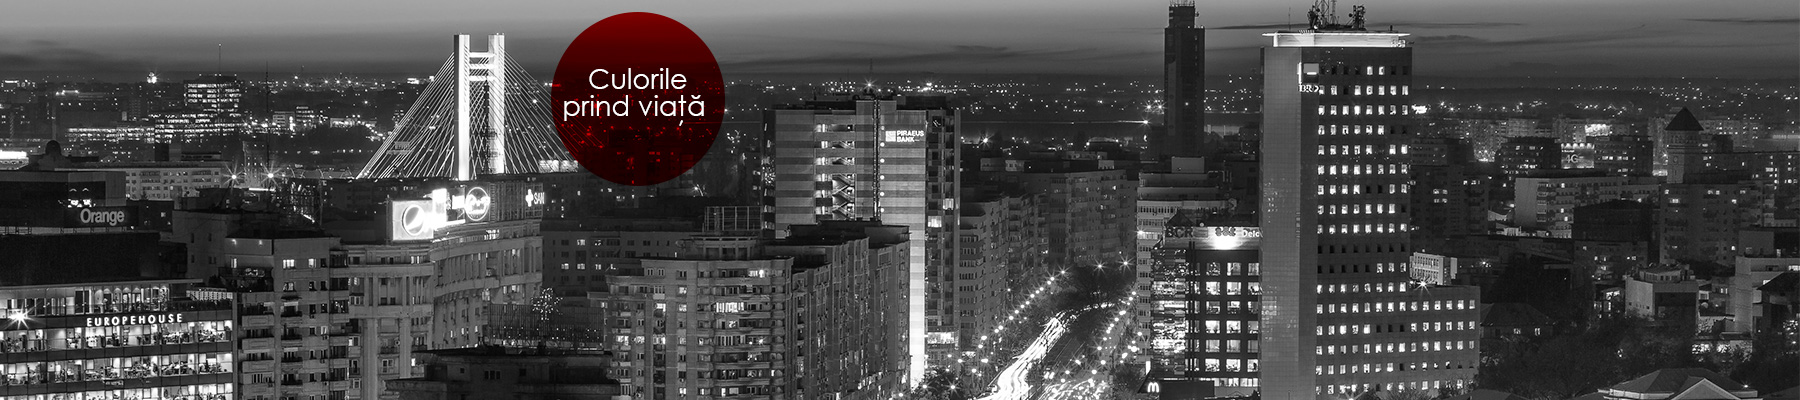
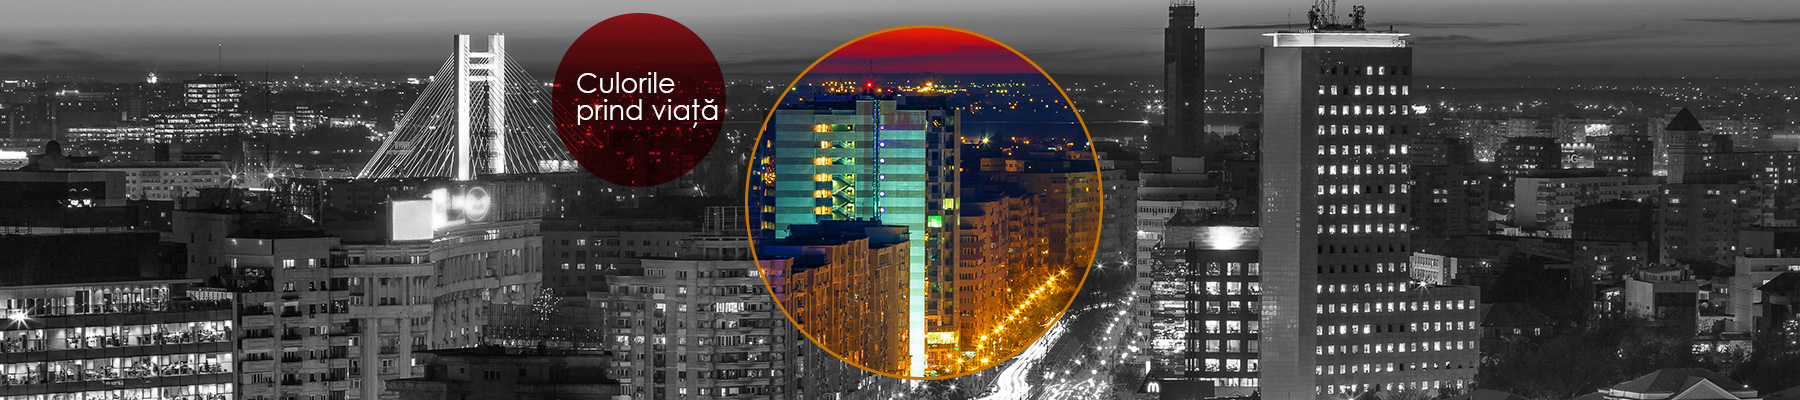
Add circles to views slider start

diff --git a/public/css/my.css b/public/css/my.css
@@ -170,9 +170,20 @@ body {
     text-align: left;
 }
 
+.steluta2 {
+    top: 375px;
+    margin: 0;
+    position: absolute;
+    /*font-family: Century Gothic;*/
+    color: #222221;
+    font-size: 14px;
+    font-weight: 400;
+    text-align: left;
+}
+
 .homebuton {
     position: absolute;
-    left: 450px;
+    left: 470px;
     top: 301px;
 }
 
@@ -184,7 +195,6 @@ body {
 }
 
 .homelink {
-    /*font-family: Century Gothic;*/
     color: #ffffff;
     font-size: 26.069px;
     font-weight: 400;
@@ -193,10 +203,11 @@ body {
     position: absolute;
     width: 110px;
     height: 56px;
-    top: 250px;
-    left: 333px;
+    top: 290px;
+    left: 343px;
     z-index: 2;
     line-height: normal;
+    margin: 0;
 }
 
 .colorstop {
@@ -321,7 +332,18 @@ body {
     border-radius: 50%;
     width: 302px;
     height: 306px;
-    top: 43px;
+    top: -358px;
+    margin-left: auto;
+    margin-right: auto;
+}
+
+.cerc-colors-inceput {
+    position: relative;
+    z-index: 6;
+    border-radius: 50%;
+    width: 302px;
+    height: 306px;
+    top: -358px;
     margin-left: auto;
     margin-right: auto;
 }
@@ -340,6 +362,20 @@ body {
     left: 30px;
 }
 
+.cerc-text-colors {
+    color: #ffffff;
+    font-size: 35px;
+    font-weight: 400;
+    /* line-height: 110.774px; */
+    text-align: center;
+    position: absolute;
+    margin: 0;
+    width: 258px;
+    height: 120px;
+    top: 120px;
+    left: 30px;
+}
+
 .cerc-durata-final {
     display: none;
     position: relative;
@@ -355,6 +391,17 @@ body {
 
 .cerc-sharp {
     display: none;
+    position: relative;
+    z-index: 6;
+    border-radius: 50%;
+    width: 302px;
+    height: 302px;
+    margin-left: auto;
+    margin-right: auto;
+    top: -350px;
+}
+
+.cerc-sharp-inceput {
     position: relative;
     z-index: 6;
     border-radius: 50%;
@@ -401,6 +448,16 @@ body {
     height: 80px;
     top: 59px;
     left: 30px;*/
+}
+
+.cerc-text2-inceput {
+    color: #ffffff;
+    font-size: 29px;
+    font-weight: 400;
+    text-align: center;
+    position: absolute;
+    margin: 0;
+    top: 119px;
 }
 
 .text-buton-cerc {
@@ -471,13 +528,13 @@ body {
 
 .checkbox2 {
     top: 277px;
-    left: 187px;
+    left: 147px;
     position: absolute;
 }
 
 .checkbox3 {
     top: 253px;
-    left: 207px;
+    left: 160px;
     position: absolute;
     /*font-family: Century Gothic;*/
     color: #000000;
@@ -492,17 +549,17 @@ body {
 }
 
 .numelabel {
-    top: 108px;
+    top: 90px;
     left: 70px;
 }
 
 .emailbox {
-    top: 162px;
+    top: 142px;
     left: 250px;
 }
 
 .emaillabel {
-    top: 171px;
+    top: 155px;
     left: 70px;
 }
 
@@ -517,12 +574,12 @@ body {
 }
 
 .cartusbox {
-    top: 224px;
+    top: 204px;
     left: 250px;
 }
 
 .cartuslabel {
-    top: 219px;
+    top: 194px;
     left: 70px;
     width: 180px;
 }
@@ -545,7 +602,7 @@ body {
     position: absolute;
     font-size: 12px;
     color: black;
-    top: 385px;
+    top: 395px;
     margin-bottom: 10px;
 }
 

diff --git a/resources/views/colors.blade.php b/resources/views/colors.blade.php
@@ -11,8 +11,9 @@
 	<div class="ascuns">
 	</div>
 
-	<div>
-		<h2 class="culori-intense">Îți dorești culori intense ?</h2>
+	<div class="cerc-colors-inceput">
+		<img src="/img/cerc-colors.png" />
+		<h3 class="cerc-text-colors">Îți dorești culori intense ?</h3>
 	</div>
 
 	<div class="cerc">
@@ -24,7 +25,6 @@
 		</a>
 	</div>
 </div>
-<!-- .css('width', slider.value/100*465+235 + 'px') -->
 <script>
 $('.slider').slider({
 	range: true,
@@ -38,13 +38,13 @@ function handleSliderChange(event, slider){
           $(".sageata").css('left', slider.value + '%');
           $(".ascuns").css('opacity', slider.value/100+0.05);
 
-          if ($(".ascuns").css('opacity') >= '0.95') 
+          if (($(".ascuns").css('opacity') >= '0.15') && ($(".ascuns").css('opacity') <= '0.25'))
+          	{
+          		return $(".cerc-colors-inceput").hide();
+          	}
+          	else if ($(".ascuns").css('opacity') >= '0.9')
           	{
           		return $(".cerc").show();
-          	}
-          	else if ($(".ascuns").css('opacity') >= '0.15')
-          	{
-          		return $(".culori-intense").hide();
           	}
 }
 </script>

diff --git a/resources/views/sharpness.blade.php b/resources/views/sharpness.blade.php
@@ -10,8 +10,9 @@
 	
 	<div class="ascuns2"></div>
 
-	<div>
-		<h2 class="materiale-calitate">Îți dorești materiale de calitate ?</h2>
+	<div class="cerc-sharp-inceput">
+		<img src="/img/bulina_diagrame.png" />
+		<h3 class="cerc-text2-inceput">Îți dorești materiale de calitate ?</h3>
 	</div>
 
 	<div class="cerc-sharp">
@@ -38,14 +39,14 @@ function handleSliderChange(event, slider){
           $(".sageata").css('left', slider.value + '%');
           $(".ascuns2").css('opacity', slider.value/100+0.10);
 
-          if ($(".ascuns2").css('opacity') >= '0.95') 
+          if (($(".ascuns2").css('opacity') >= '0.15') && ($(".ascuns2").css('opacity') <= '0.25'))
+          	{
+          		return $(".cerc-sharp-inceput").hide();
+          	}
+          	else if ($(".ascuns2").css('opacity') >= '0.9')
           	{
           		return $(".cerc-sharp").show();
           	}
-          	else if ($(".ascuns2").css('opacity') >= '0.15')
-          	{
-          		return $(".materiale-calitate").hide();
-          	};
 }
 </script>
 @endsection

diff --git a/resources/views/footer.blade.php b/resources/views/footer.blade.php
@@ -10,5 +10,6 @@
 		<h2 class="consumabile-text">Folosind consumabile originale Canon, beneficiaţi de culori intense, calitate 
 		şi durabilitate în imprimarea materialelor dumneavoastră.</h4>
 		<h4 class="steluta">* Produsele participante în promoţie sunt: consumabile Canon Maxify, Canon Pixma şi Canon I-SENSYS.</h4>
+		<h4 class="steluta2">** Perioada promoţiei: 15 aprilie - 30 mai 2015.</h4>
 	<a target="_blank" href="/doc/Regulamentulcampaniei-Culorileprindviata.pdf" class="regulament">Regulament</a>
 </div>

diff --git a/resources/views/home.blade.php b/resources/views/home.blade.php
@@ -4,7 +4,7 @@
 <div class="hometop">
 	<!-- <img src="/img/homeheader.png" /> -->
 	<div class="cerc-home">
-		<img src="/img/bulina_pag1.png" />
+		<!-- <img src="/img/bulina_pag1.png" /> -->
 	<a href="/colors">
 		<img src="/img/homebuton.png" class="homebuton" />
 		<h4 class="homelink">Intră în aplicaţie</h4>
